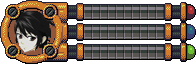
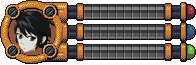
Added level indicator and new hud

diff --git a/js/loadMap.js b/js/loadMap.js
@@ -59,7 +59,9 @@ function loadMap(key, spawn_x, spawn_y, bgn){
     inventory.bringToTop();
     textBox.bringToTop();
     textBox2.bringToTop();
-    gold.bringToTop();    
+    goldHud.bringToTop();
+    gold.bringToTop();
+    levelIcon.bringToTop();   
 }
 
 
@@ -148,8 +150,20 @@ function initPlayer(spawnX, spawnY, hp){
 
     textBox = game.add.sprite((window.innerWidth/2) - 245, (window.innerHeight) - 90 , 'textHud'); textBox.fixedToCamera = true; textBox.exists = false; 
     textBox2 = game.add.sprite((window.innerWidth/2) - 245, (window.innerHeight) - 160 , 'textHud2'); textBox2.fixedToCamera = true; textBox2.exists = false; 
-    gold = game.add.sprite(30, 85, 'goldIcon');
-    goldText = game.add.text(40,8,playerGold.toString(), niceTxtStyle);
+    
+    goldHud = game.add.sprite(0, 80, 'gold_and_exp_hud');
+    goldHud.scale.set(1.2);
+    goldHud.fixedToCamera = true;
+
+    levelIcon = itemFrames.load("levelIcon", 180, 85);
+    levelIcon.scale.set(0.8);
+    levelText = game.add.text(-15, 12, player.lvl.toString(), niceTxtStyle);
+    levelIcon.addChild(levelText);
+    levelIcon.fixedToCamera = true;
+
+    gold = game.add.sprite(30, 88, 'goldIcon');
+    gold.scale.set(0.8);
+    goldText = game.add.text(35,9,playerGold.toString(), niceTxtStyle);
     gold.addChild(goldText);
 
     gold.fixedToCamera = true;

diff --git a/js/hudTest.js b/js/hudTest.js
@@ -4,7 +4,8 @@ var map;
 var gameProgress = 0;
 var dialogueBox, textBox, textBox2;
 var dialogue = false;
-var playerGold = 100; var gold, goldText;
+var playerGold = 100; var gold, goldText, goldHud;
+var levelIcon, levelText;
 var inventory, inventoryDisplayed; inventoryDisplayed = false;
 var inventorySlots = [];
 var inventoryAvailability = [];
@@ -401,6 +402,7 @@ function attackCollisionHandler(atkBox, enemy){
         updateExpBar();
 
         gold.getChildAt(0).setText(playerGold); 
+        levelIcon.getChildAt(0).setText(player.lvl);
         
         switch (enemy.key){
             case "wolfBoss":

diff --git a/js/preload.js b/js/preload.js
@@ -21,6 +21,7 @@ function preload() {
     game.load.image('chestSlot', 'assets/HUD/chest_slot.png');
     game.load.image('swordSlot', 'assets/HUD/sword_slot.png');
     game.load.image('goldIcon', 'assets/goldIcon.png');
+    game.load.image('gold_and_exp_hud', 'assets/HUD/other_hud_player.png');
 
     game.load.image('healer', 'assets/Spritesheet/NPC/healer.png');
     game.load.image('kid', 'assets/Spritesheet/NPC/kid.png');

diff --git a/assets/Spritesheet/frames.js b/assets/Spritesheet/frames.js
@@ -94,6 +94,7 @@ itemFrames = {
 	'mp0': 38,
 	'mp1': 52,
 	'mp2': 31,
+	'levelIcon': 364,
 
 	load: function(item, x, y){
 		var itemTR = game.add.sprite(x, y, 'items', this[item]);
